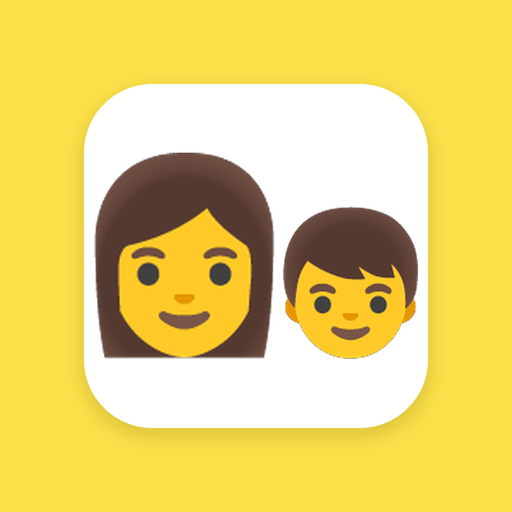
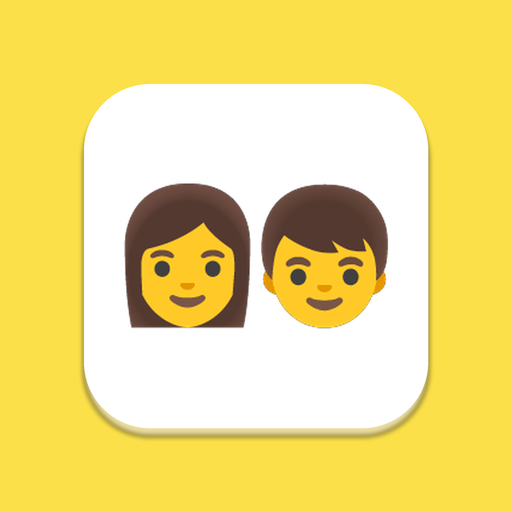
부부 할일: 홈 아이콘 👩·👦 얼굴 크기 1:1 로 통일, 흰 카드 크기 세은 운동과 동일(344/256), sw bubu-v9

diff --git a/sw.js b/sw.js
@@ -1,5 +1,5 @@
 /* Bubulife 서비스워커 — 오프라인에서도 마지막 화면은 열리게 */
-const CACHE = 'bubu-v8';
+const CACHE = 'bubu-v9';
 const ASSETS = [
   './',
   './index.html',

diff --git a/README.md b/README.md
@@ -42,10 +42,10 @@ https://daydaisy2.github.io/bubulife/?room=<비공개 방 키>
 ## 파일
 
 - `index.html` — 화면·동작 전부 (한 파일)
-- `sw.js` — 오프라인 캐시 서비스워커 (`bubu-v8`). 화면은 네트워크 우선, 나머지는 캐시 우선
+- `sw.js` — 오프라인 캐시 서비스워커 (`bubu-v9`). 화면은 네트워크 우선, 나머지는 캐시 우선
 - `manifest.webmanifest`, `icon-*.png` — 홈 화면 설치용
 
 ## 손보는 법
 
 `main` 브랜치를 고쳐 푸시한 뒤 같은 내용을 `gh-pages` 로도 올리면 1~2분 안에 반영됩니다.
-화면 캐시가 남아 있으면 서비스워커 캐시 이름(`bubu-v8`)을 한 단계 올려 주세요.
+화면 캐시가 남아 있으면 서비스워커 캐시 이름(`bubu-v9`)을 한 단계 올려 주세요.
